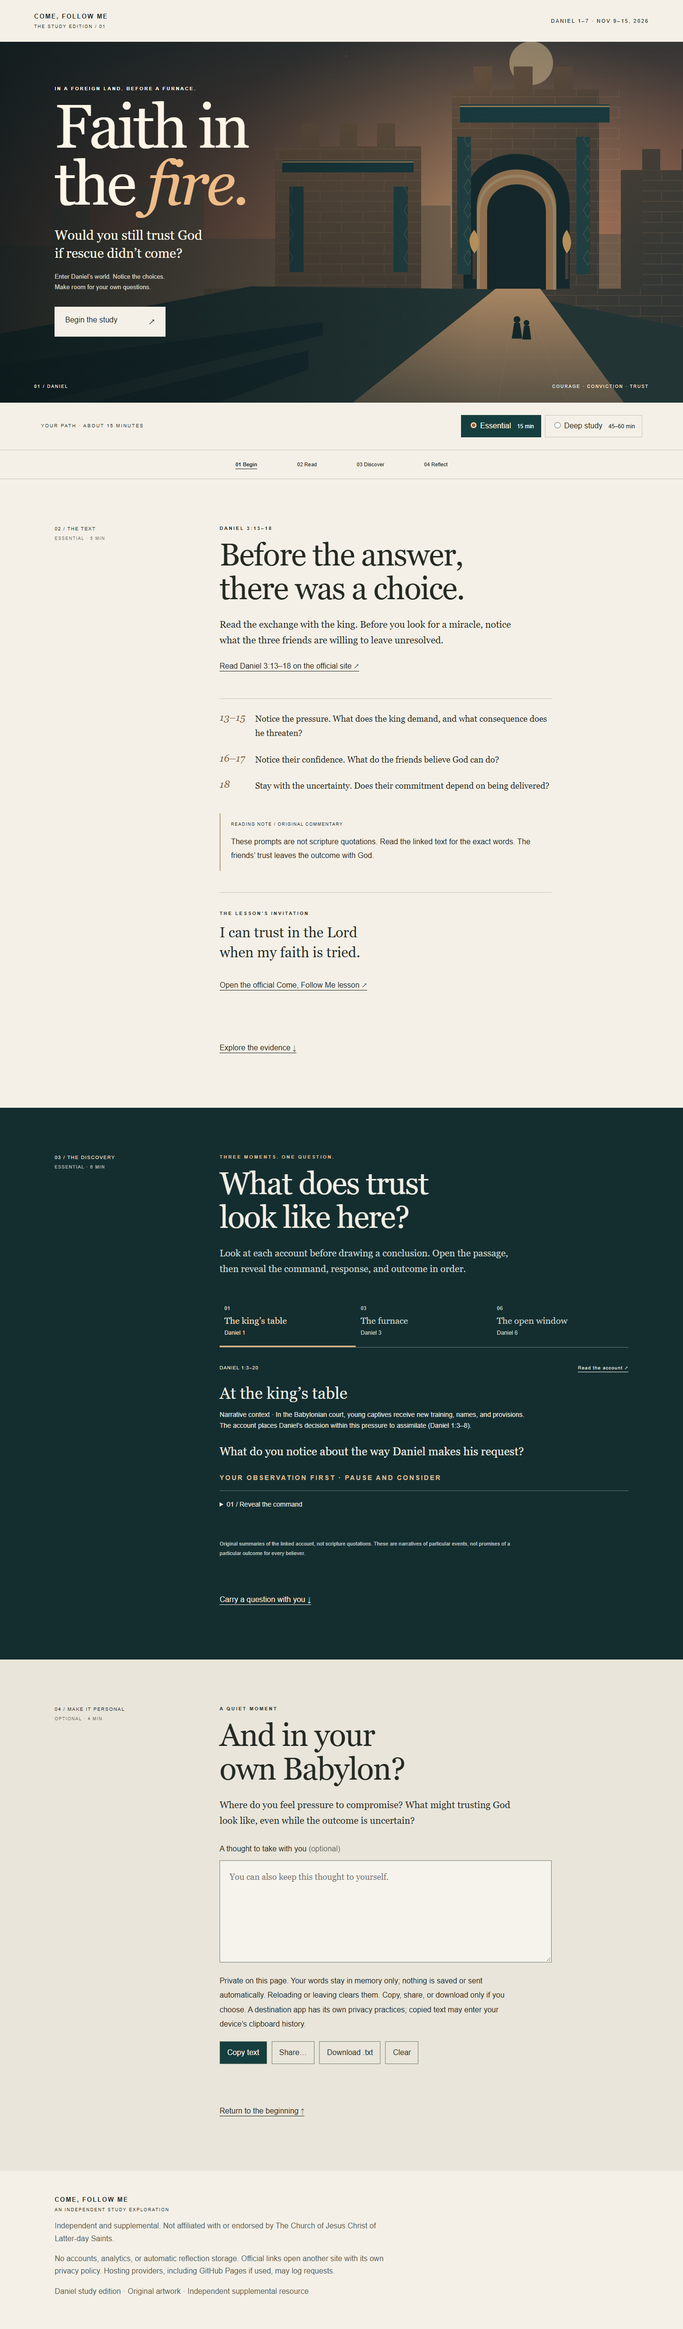
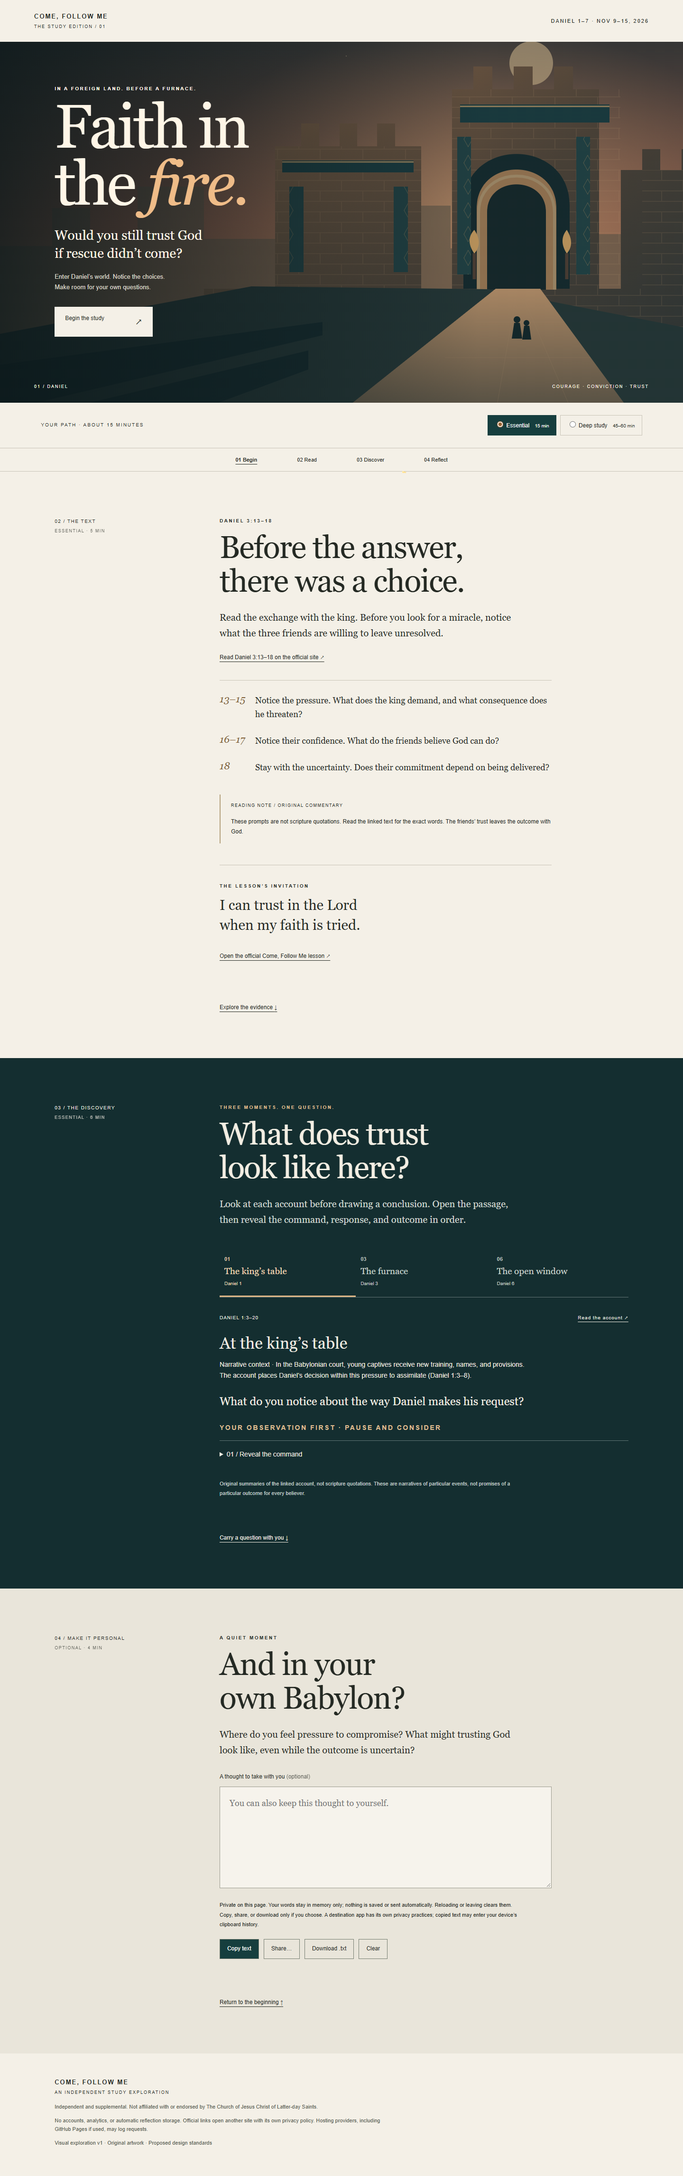
fix: use exact user-selected Daniel v1 files without design overrides

diff --git a/index.html b/index.html
@@ -8,8 +8,8 @@
 <meta name="robots" content="noindex,nofollow">
 <meta name="description" content="An independent, private Daniel 1–7 study exploration.">
 <title>Daniel — Faith in the fire</title>
-<link rel="stylesheet" href="design/tokens.css"><link rel="stylesheet" href="style.css">
-<script src="app.js" defer></script>
+<link rel="stylesheet" href="study.css">
+<script src="study.js" defer></script>
 </head>
 <body>
 <a class="skip" href="#main">Skip to study</a>
@@ -23,7 +23,7 @@
 <div class="study-bar"><p id="mode-summary">YOUR PATH · ABOUT 15 MINUTES</p><fieldset><legend class="sr-only">Study length</legend><label><input type="radio" name="mode" value="essential" checked> Essential <small>15 min</small></label><label><input type="radio" name="mode" value="deep"> Deep study <small>45–60 min</small></label></fieldset></div>
 <nav class="chapters" aria-label="Study sections"><a href="#landing">01 Begin</a><a href="#reading">02 Read</a><a href="#discovery">03 Discover</a><a href="#reflection">04 Reflect</a></nav>
 <section id="reading" class="reading section" aria-labelledby="read-title"><div class="section-label">02 / THE TEXT<br><span>ESSENTIAL · 5 MIN</span></div><div class="reading-body"><p class="eyebrow">DANIEL 3:13–18</p><h2 id="read-title">Before the answer,<br>there was a choice.</h2><p class="intro">Read the exchange with the king. Before you look for a miracle, notice what the three friends are willing to leave unresolved.</p><a class="resource" href="https://www.churchofjesuschrist.org/study/scriptures/ot/dan/3?lang=eng&amp;id=p13-p18#p13" target="_blank" rel="noopener noreferrer">Read Daniel 3:13–18 on the official site ↗</a><div class="verse-guide"><span>13–15</span><p><strong>Notice the pressure.</strong> What does the king demand, and what consequence does he threaten?</p><span>16–17</span><p><strong>Notice their confidence.</strong> What do the friends believe God can do?</p><span>18</span><p><strong>Stay with the uncertainty.</strong> Does their commitment depend on being delivered?</p></div><aside class="margin-note"><span>READING NOTE / ORIGINAL COMMENTARY</span><p>These prompts are not scripture quotations. Read the linked text for the exact words. The friends’ trust leaves the outcome with God.</p></aside><div class="principle"><p class="eyebrow">THE LESSON’S INVITATION</p><p>I can trust in the Lord<br>when my faith is tried.</p><a class="resource" href="https://www.churchofjesuschrist.org/study/manual/come-follow-me-for-home-and-church-old-testament-2026/46?lang=eng" target="_blank" rel="noopener noreferrer">Open the official Come, Follow Me lesson ↗</a></div><a class="text-link" href="#discovery">Explore the evidence <span aria-hidden="true">↓</span></a></div></section>
-<section id="discovery" class="discovery section" aria-labelledby="discover-title"><div class="section-label">03 / THE DISCOVERY<br><span>ESSENTIAL · 6 MIN</span></div><div class="discovery-body"><p class="eyebrow">THREE MOMENTS. ONE QUESTION.</p><h2 id="discover-title">What does trust<br>look like here?</h2><p class="intro">Look at each account before drawing a conclusion. Open the passage, then reveal the command, response, and outcome in order.</p><div class="scene-picker" role="group" aria-label="Choose an account"><button data-scene="0" aria-pressed="true">01 <span>The king’s table</span><small>Daniel 1</small></button><button data-scene="1" aria-pressed="false">03 <span>The furnace</span><small>Daniel 3</small></button><button data-scene="2" aria-pressed="false">06 <span>The open window</span><small>Daniel 6</small></button></div><article class="evidence"><div class="evidence-head"><span id="scene-ref">DANIEL 1:3–20</span><a id="scene-source" target="_blank" rel="noopener noreferrer">Read the account ↗</a></div><h3 id="scene-title">At the king’s table</h3><p id="scene-context"></p><p class="question" id="scene-question"></p><p class="eyebrow">YOUR OBSERVATION FIRST · PAUSE AND CONSIDER</p><div id="reveals"></div><p class="evidence-note">Original summaries of the linked account, not scripture quotations. These are narratives of particular events, not promises of a particular outcome for every believer.</p></article><div class="deep-content" hidden><p class="eyebrow">DEEP STUDY / A WIDER LENS · 30–45 MIN</p><h3>When the story widens.</h3><details><summary>Daniel 7 · Kingdoms and enduring hope</summary><p>Read <a href="https://www.churchofjesuschrist.org/study/scriptures/ot/dan/7?lang=eng&amp;id=p9-p14,p23-p27#p9" target="_blank" rel="noopener noreferrer">Daniel 7:9–14, 23–27 ↗</a>. First list what changes and what endures in the vision. Then consider how its picture of God’s kingdom changes your reading of earthly power. This symbolic vision is not a timetable supplied by this study guide.</p></details><details><summary>Alma 14 · When rescue does not come</summary><p>Read <a href="https://www.churchofjesuschrist.org/study/scriptures/bofm/alma/14?lang=eng&amp;id=p8-p13#p8" target="_blank" rel="noopener noreferrer">Alma 14:8–13 ↗</a>. This passage describes the deaths of believers; you may pause or skip it. What does Amulek ask? What does Alma say? Compare this account with Daniel 3:17–18 before reading the interpretation below.</p><p><strong>Interpretation:</strong> Faith does not guarantee physical rescue. Suffering does not establish a person’s lack of faith. Make space for grief and unanswered questions.</p></details></div><a class="text-link" href="#reflection">Carry a question with you ↓</a></div></section>
+<section id="discovery" class="discovery section" aria-labelledby="discover-title"><div class="section-label">03 / THE DISCOVERY<br><span>ESSENTIAL · 6 MIN</span></div><div class="discovery-body"><p class="eyebrow">THREE MOMENTS. ONE QUESTION.</p><h2 id="discover-title">What does trust<br>look like here?</h2><p class="intro">Look at each account before drawing a conclusion. Open the passage, then reveal the command, response, and outcome in order.</p><div class="scene-picker" role="group" aria-label="Choose an account"><button data-scene="0" aria-pressed="true">01 <span>The king’s table</span><small>Daniel 1</small></button><button data-scene="1" aria-pressed="false">03 <span>The furnace</span><small>Daniel 3</small></button><button data-scene="2" aria-pressed="false">06 <span>The open window</span><small>Daniel 6</small></button></div><article class="evidence"><div class="evidence-head"><span id="scene-ref">DANIEL 1:3–20</span><a id="scene-source" target="_blank" rel="noopener noreferrer">Read the account ↗</a></div><h3 id="scene-title">At the king’s table</h3><p id="scene-context"></p><p class="question" id="scene-question"></p><p class="eyebrow">YOUR OBSERVATION FIRST · PAUSE AND CONSIDER</p><div id="reveals"></div><p class="evidence-note">Original summaries of the linked account, not scripture quotations. These are narratives of particular events, not promises of a particular outcome for every believer.</p></article><div class="deep-content" hidden><p class="eyebrow">DEEP STUDY / A WIDER LENS · 30–45 MIN</p><h3>When the story widens.</h3><details><summary>Daniel 7 · Kingdoms and enduring hope</summary><p>Read <a href="https://www.churchofjesuschrist.org/study/scriptures/ot/dan/7?lang=eng&amp;id=p9-p14,p23-p27#p9" target="_blank" rel="noopener noreferrer">Daniel 7:9–14, 23–27 ↗</a>. First list what changes and what endures in the vision. Then consider how its picture of God’s kingdom changes your reading of earthly power. This symbolic vision is not a timetable supplied by this prototype.</p></details><details><summary>Alma 14 · When rescue does not come</summary><p>Read <a href="https://www.churchofjesuschrist.org/study/scriptures/bofm/alma/14?lang=eng&amp;id=p8-p13#p8" target="_blank" rel="noopener noreferrer">Alma 14:8–13 ↗</a>. This passage describes the deaths of believers; you may pause or skip it. What does Amulek ask? What does Alma say? Compare this account with Daniel 3:17–18 before reading the interpretation below.</p><p><strong>Interpretation:</strong> Faith does not guarantee physical rescue. Suffering does not establish a person’s lack of faith. Make space for grief and unanswered questions.</p></details></div><a class="text-link" href="#reflection">Carry a question with you ↓</a></div></section>
 <section id="reflection" class="reflection section" aria-labelledby="reflect-title"><div class="section-label">04 / MAKE IT PERSONAL<br><span>OPTIONAL · 4 MIN</span></div><div class="reflection-body"><p class="eyebrow">A QUIET MOMENT</p><h2 id="reflect-title">And in your<br>own Babylon?</h2><p class="intro">Where do you feel pressure to compromise? What might trusting God look like, even while the outcome is uncertain?</p><label for="thought">A thought to take with you <span>(optional)</span></label><textarea id="thought" autocomplete="off" spellcheck="false" rows="6" maxlength="10000" placeholder="You can also keep this thought to yourself."></textarea><p class="privacy">Private on this page. Your words stay in memory only; nothing is saved or sent automatically. Reloading or leaving clears them. Copy, share, or download only if you choose. A destination app has its own privacy practices; copied text may enter your device’s clipboard history.</p><div class="save-actions"><button id="copy">Copy text</button><button id="share">Share…</button><button id="download">Download .txt</button><button id="clear">Clear</button></div><p id="save-status" role="status" aria-live="polite"></p><a class="text-link" href="#landing">Return to the beginning ↑</a></div></section>
-</main><footer><p class="brand">COME, FOLLOW ME <span>AN INDEPENDENT STUDY EXPLORATION</span></p><p>Independent and supplemental. Not affiliated with or endorsed by The Church of Jesus Christ of Latter-day Saints.</p><p>No accounts, analytics, or automatic reflection storage. Official links open another site with its own privacy policy. Hosting providers, including GitHub Pages if used, may log requests.</p><p>Daniel study edition · Original artwork · Independent supplemental resource</p></footer>
+</main><footer><p class="brand">COME, FOLLOW ME <span>AN INDEPENDENT STUDY EXPLORATION</span></p><p>Independent and supplemental. Not affiliated with or endorsed by The Church of Jesus Christ of Latter-day Saints.</p><p>No accounts, analytics, or automatic reflection storage. Official links open another site with its own privacy policy. Hosting providers, including GitHub Pages if used, may log requests.</p><p>Visual exploration v1 · Original artwork · Proposed design standards</p></footer>
 </body></html>

diff --git a/study.css b/study.css
@@ -1,13 +1,1 @@
 :root{--ink:#242923;--paper:#f4f0e7;--teal:#163e3e;--gold:#dbb383;--line:#c9c4b8;--serif:Georgia,'Times New Roman',serif;--sans:Arial,Helvetica,sans-serif}*{box-sizing:border-box}html{scroll-behavior:smooth;scroll-padding-top:70px}body{margin:0;background:var(--paper);color:var(--ink);font:16px/1.65 var(--sans)}a{color:inherit;text-underline-offset:5px}button,input,textarea{font:inherit}button,a,input,summary,textarea{touch-action:manipulation}button,summary{cursor:pointer}button{color:inherit}a:focus-visible,button:focus-visible,input:focus-visible,summary:focus-visible,textarea:focus-visible{outline:3px solid #b56d27;outline-offset:5px}.skip{position:fixed;left:12px;top:-100px;z-index:10;background:white;padding:10px}.skip:focus{top:10px}.masthead{display:flex;justify-content:space-between;align-items:center;padding:24px 5%;font-size:11px;letter-spacing:2px}.brand{font-size:13px;letter-spacing:2px;text-decoration:none;font-weight:bold}.brand span{display:block;font-size:9px;font-weight:normal;letter-spacing:2px;margin-top:4px}.hero{min-height:760px;position:relative;isolation:isolate;overflow:hidden;background:#202a2a;color:#fff6e7}.hero-art{position:absolute;inset:0;width:100%;height:100%;object-fit:cover;z-index:-2}.hero:after{content:'';position:absolute;inset:0;background:linear-gradient(90deg,rgba(12,24,26,.87),rgba(12,24,26,.22) 70%);z-index:-1}.hero-copy{padding:90px 8% 110px}.eyebrow{font-size:10px;font-weight:bold;letter-spacing:2.5px;line-height:1.8}h1,h2,h3,p{margin-top:0}h1{font:normal clamp(76px,9vw,136px)/.92 var(--serif);letter-spacing:-5px;margin-bottom:32px}h1 em{font-weight:normal;color:#efbc88}.hero-question{font:28px/1.35 var(--serif);margin-bottom:20px}.hero-sub{font-size:13px;color:#ded9cc}.primary{display:inline-flex;gap:65px;background:var(--paper);color:var(--ink);text-decoration:none;padding:15px 22px;margin-top:18px;font-size:12px}.primary span{font-size:20px}.hero-foot{position:absolute;bottom:26px;left:5%;right:5%;display:flex;justify-content:space-between;font-size:9px;letter-spacing:2px}.study-bar{padding:26px 6%;display:flex;justify-content:space-between;align-items:center;border-bottom:1px solid var(--line);gap:20px}.study-bar p{margin:0;font-size:10px;letter-spacing:2px}fieldset{border:0;padding:0;margin:0;display:flex;gap:8px}fieldset label{padding:9px 14px;border:1px solid var(--line);font-size:12px;cursor:pointer}fieldset label:has(:checked){background:var(--teal);color:white;border-color:var(--teal)}input{accent-color:#96602f}small{font-size:10px;margin-left:8px}.chapters{position:sticky;top:0;z-index:3;display:flex;justify-content:center;gap:6%;background:var(--paper);border-bottom:1px solid var(--line);padding:15px 20px}.chapters a{font-size:11px;text-decoration:none}.chapters a[aria-current]{text-decoration:underline;font-weight:bold}.section{display:grid;grid-template-columns:1fr 3fr;gap:5%;padding:95px 8%}.section-label{font-size:10px;letter-spacing:1.5px;line-height:2}.section-label span{font-size:9px;opacity:.7}.reading-body,.reflection-body{max-width:700px}h2{font:normal clamp(42px,5vw,66px)/1.08 var(--serif);letter-spacing:-1.6px;margin-bottom:25px}.intro{font:20px/1.65 var(--serif);max-width:620px}.resource{font-size:12px;display:inline-block;margin:5px 0 25px}.verse-guide{display:grid;grid-template-columns:55px 1fr;border-top:1px solid var(--line);padding-top:27px;gap:8px 20px;margin-top:12px}.verse-guide>span{font:italic 21px var(--serif);color:#805e37}.verse-guide p{font:18px/1.65 var(--serif)}.verse-guide strong{font-weight:normal}.margin-note{border-left:2px solid #b5a17d;padding:8px 0 1px 22px;margin:25px 0 45px}.margin-note span{font-size:9px;letter-spacing:1.5px}.margin-note p{font-size:12px;line-height:1.8;margin-top:12px}.principle{padding:35px 0;border-top:1px solid var(--line)}.principle>p:nth-child(2){font:30px/1.4 var(--serif)}.text-link{display:inline-block;font-size:12px;margin-top:28px}.discovery{background:#142e30;color:#f3eee3}.discovery .eyebrow{color:#dfbd91}.discovery .intro{color:#d2d9d2}.scene-picker{display:flex;border-bottom:1px solid #637575;margin-top:40px}.scene-picker button{flex:1;background:none;border:0;border-bottom:3px solid transparent;text-align:left;padding:17px 10px;color:#c6d1ca;font-size:11px}.scene-picker button[aria-pressed=true]{border-color:var(--gold);color:#f4d9b7}.scene-picker span{display:block;font:19px var(--serif);margin:6px 0}.scene-picker small{margin:0}.evidence{padding:35px 0}.evidence-head{display:flex;justify-content:space-between;gap:15px;font-size:10px;letter-spacing:1px;margin-bottom:25px}.evidence h3,.deep-content h3{font:34px var(--serif);margin-bottom:15px}.evidence>p{max-width:650px;font-size:14px}.evidence .question{font:24px/1.5 var(--serif);margin:25px 0}details{border-top:1px solid #607574;padding:17px 0}summary{font-size:14px;padding-right:10px}details p{font-size:14px;line-height:1.8;margin:15px 0 0;max-width:650px}.evidence-note{color:#c1ceca;font-size:11px!important;line-height:1.8;margin-top:24px}.deep-content{border-top:1px solid #607574;padding-top:30px}.reflection{background:#e9e5da}.reflection label{display:block;font-size:12px;margin-top:30px;margin-bottom:10px}.reflection label span{opacity:.7}textarea{width:100%;resize:vertical;border:1px solid #9c9b8f;background:#f6f3ec;padding:20px;font:18px/1.6 var(--serif);color:var(--ink);border-radius:0}.privacy{font-size:11px;line-height:1.9;margin-top:16px;max-width:630px}.save-actions{display:flex;flex-wrap:wrap;gap:10px;margin-top:20px}.save-actions button{border:1px solid #777f72;background:transparent;padding:10px 15px;font-size:12px}.save-actions button:first-child{background:var(--teal);color:white}#save-status{min-height:26px;font-size:12px;margin-top:16px}footer{padding:50px 8%;max-width:1100px}footer>p:not(.brand){font-size:11px;color:#575b51;max-width:700px}.sr-only{position:absolute;width:1px;height:1px;padding:0;overflow:hidden;clip:rect(0,0,0,0);white-space:nowrap}[hidden]{display:none!important}@media(min-width:1500px){.hero-art{object-position:center 60%}.hero-copy{padding-left:15%}}@media(max-width:700px){.masthead{padding:18px 6%}.edition{display:none}.hero{min-height:730px}.hero-copy{padding:65px 8% 100px}.hero-art{object-position:63% center}.hero:after{background:linear-gradient(90deg,rgba(12,24,26,.87),rgba(12,24,26,.28))}h1{font-size:88px;letter-spacing:-4px}.hero-question{font-size:25px}.hero-foot span:last-child{font-size:7px;letter-spacing:1px}.study-bar{display:block;padding:22px 6%}.study-bar p{margin-bottom:12px}fieldset{width:100%}fieldset label{flex:1;padding:10px;font-size:11px}small{margin-left:3px}.chapters{gap:0;justify-content:space-between;padding:14px 6%}.chapters a{font-size:10px}.section{display:block;padding:50px 8%}.section-label{margin-bottom:30px}.section-label br{display:none}.section-label span{margin-left:12px}h2{font-size:43px}.intro{font-size:19px}.scene-picker span{font-size:16px;line-height:1.3}.scene-picker button{padding:12px 5px}.evidence-head{font-size:9px;letter-spacing:.3px}.hero-sub{font-size:12px}.save-actions button{padding:10px 12px}footer{padding:35px 8%}}@media(prefers-reduced-motion:reduce){html{scroll-behavior:auto}*{animation:none!important;transition:none!important}}
-
-/* Preserve the Daniel v1 composition with canonical tokens and readable controls. */
-:root{--ink:var(--cfm-color-ink);--paper:var(--cfm-color-paper);--teal:var(--cfm-color-teal);--gold:var(--cfm-color-gold);--line:var(--cfm-color-line);--serif:var(--cfm-font-editorial);--sans:var(--cfm-font-interface)}
-.primary,.resource,.text-link,.save-actions button,.reflection label,.privacy,#save-status,footer>p:not(.brand),.margin-note p{font-size:1rem}
-.primary,.resource,.text-link,.chapters a,summary,.save-actions button{min-height:2.75rem}
-.chapters a{display:inline-flex;align-items:center}
-.chapters{padding-block:.5rem;flex-wrap:wrap;gap:.5rem 6%}
-fieldset{flex-wrap:wrap}fieldset label{font-size:1rem;min-height:2.75rem}small{font-size:.75rem}
-textarea{border-color:var(--cfm-color-control-border)}
-.discovery :focus-visible,.hero :focus-visible{outline-color:var(--cfm-color-focus-on-dark)}
-@media(max-width:700px){h1{font-size:clamp(3.5rem,22vw,5.5rem)}h2{font-size:clamp(2.625rem,11vw,4.125rem)}.hero{min-height:0}.hero-copy{padding-bottom:7rem}.hero-foot{flex-wrap:wrap;gap:.5rem}.scene-picker{flex-wrap:wrap}.scene-picker button{min-width:0}.evidence-head{flex-wrap:wrap}.chapters{position:static}.section{padding-inline:6%}.verse-guide{grid-template-columns:2.5rem minmax(0,1fr);gap:.5rem}p,a,button,summary{overflow-wrap:anywhere}}
-@media(max-width:700px){h2{overflow-wrap:anywhere}}

diff --git a/adventure.html b/adventure.html
@@ -2,5 +2,5 @@
 <html lang="en"><head><meta charset="utf-8"><meta name="viewport" content="width=device-width, initial-scale=1">
 <meta http-equiv="Content-Security-Policy" content="default-src 'none'; style-src 'self'; base-uri 'none'; form-action 'none'; object-src 'none'">
 <meta http-equiv="refresh" content="0; url=index.html"><meta name="referrer" content="no-referrer"><meta name="robots" content="noindex,nofollow">
-<title>Daniel study has moved</title><link rel="stylesheet" href="design/tokens.css"><link rel="stylesheet" href="style.css"></head>
+<title>Daniel study has moved</title><link rel="stylesheet" href="design/tokens.css"><link rel="stylesheet" href="study.css"></head>
 <body><main class="section"><div class="reading-body"><h1>Faith in the fire.</h1><p>Both study routes now lead to the Daniel study edition.</p><a class="primary" href="index.html">Open the Daniel study</a></div></main></body></html>

diff --git a/journal.html b/journal.html
@@ -2,5 +2,5 @@
 <html lang="en"><head><meta charset="utf-8"><meta name="viewport" content="width=device-width, initial-scale=1">
 <meta http-equiv="Content-Security-Policy" content="default-src 'none'; style-src 'self'; base-uri 'none'; form-action 'none'; object-src 'none'">
 <meta http-equiv="refresh" content="0; url=index.html"><meta name="referrer" content="no-referrer"><meta name="robots" content="noindex,nofollow">
-<title>Daniel study has moved</title><link rel="stylesheet" href="design/tokens.css"><link rel="stylesheet" href="style.css"></head>
+<title>Daniel study has moved</title><link rel="stylesheet" href="design/tokens.css"><link rel="stylesheet" href="study.css"></head>
 <body><main class="section"><div class="reading-body"><h1>Faith in the fire.</h1><p>Both study routes now lead to the Daniel study edition.</p><a class="primary" href="index.html">Open the Daniel study</a></div></main></body></html>

diff --git a/design/review/daniel-main/README.md b/design/review/daniel-main/README.md
@@ -1,23 +1,9 @@
-# Daniel main experience review
+# Exact Daniel v1 replacement
 
-The main `index.html` now uses Daniel visual v1 directly: its original artwork, hero composition, section-number rail, editorial reading, account picker, ordered evidence disclosure, and optional reflection. Essential and Deep Study are modes within this single page. The A/B chooser and alternate study implementations are removed; old Adventure and Journal URLs redirect to the main study, with a visible fallback link.
+The main page, study.css, study.js, and assets/babylon.svg are copied byte-for-byte from the user-selected local Daniel visual v1 reference. No typography, spacing, control, content, or layout overrides are applied. Adventure and Journal URLs redirect to this single experience.
 
-The archived prototype is unchanged. Main-page assets are first-party files at `assets/babylon.svg`, `style.css`, and `app.js`. Shared design tokens are loaded and mapped to the original layout. Small accessibility refinements enlarge controls and privacy information, use dark-surface focus rings, and allow narrow layouts to wrap at enlarged text sizes. No hosting configuration is changed.
+Validation: full-page browser screenshots match the archived reference pixel-for-pixel at desktop (1440px) and mobile (390px). All four source files were also compared byte-for-byte with the specified local reference. The browser harness passes interaction, keyboard disclosure, modes, history, export fallbacks, exact download content, privacy/storage, CSP, reduced-motion, legacy redirects, and 320–1440px reflow checks. See results.json and desktop.png/mobile.png.
 
-## Evidence
+The original prototype's accessibility limitations remain; native-device sharing and screen readers have not been verified. No 200% text compliance claim is made for this exact reproduction.
 
-[Desktop](desktop.png) · [Mobile](mobile.png) · [Desktop hero](desktop-hero.png) · [Mobile hero](mobile-hero.png) · [Results](results.json)
-
-Browser checks pass for all three accounts with keyboard disclosure; section back/forward; mode switching; exact downloaded reflection text; successful/failed clipboard; successful/unavailable/canceled mocked sharing; clear/reload; no storage or external requests; CSP enforcement; reduced motion; 320/390/768/1440px reflow; 320px reflow at 200% text; both legacy redirects. Desktop and mobile hero screenshots were visually reviewed.
-
-Native-device sharing and screen-reader behavior remain unverified. Mock APIs test application branches, not real device behavior. Publication remains subject to the security/privacy release gate.
-
-## Reproduce
-
-Install Playwright in ignored `.test-tools` as described by the prototype review, or set `PLAYWRIGHT_MODULE` to an existing installation. `CHROME_PATH` overrides the default Windows Chrome path. Run from the repository root:
-
-```text
-node design/review/daniel-main/verify.cjs
-```
-
-Artwork provenance: the original SVG was authored for Daniel visual v1, contains no external references, and depicts an imagined Babylonian gateway. See the prototype README for source and rights notes.
+Run `node design/review/daniel-main/verify.cjs` with PLAYWRIGHT_MODULE pointing to Playwright and optional CHROME_PATH. Artwork provenance and source review remain documented in the prototype README.
